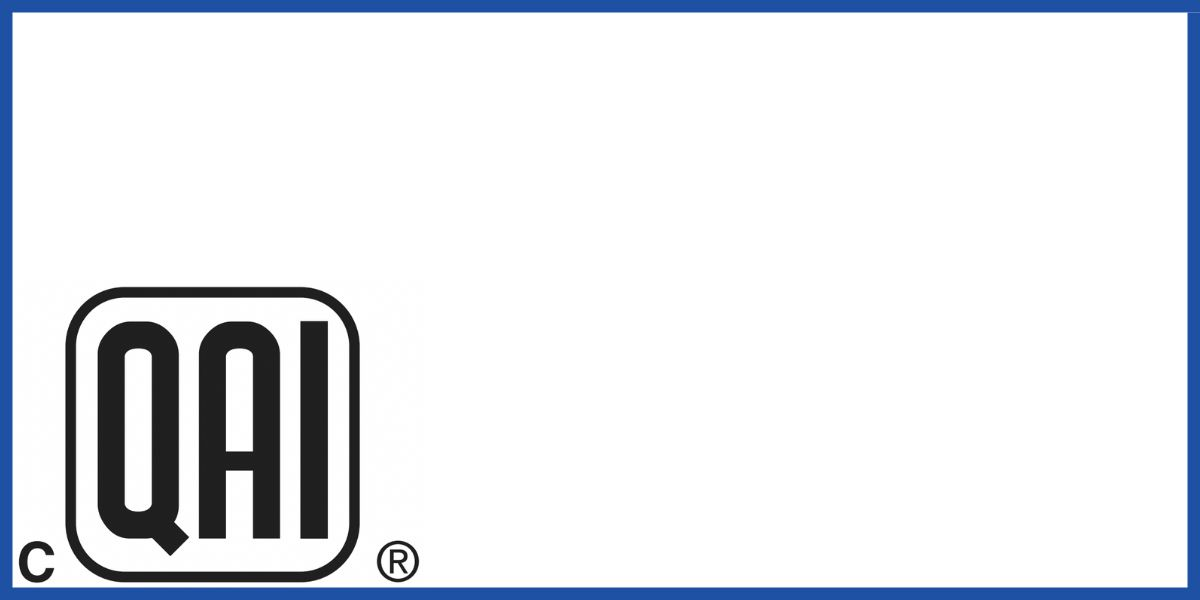
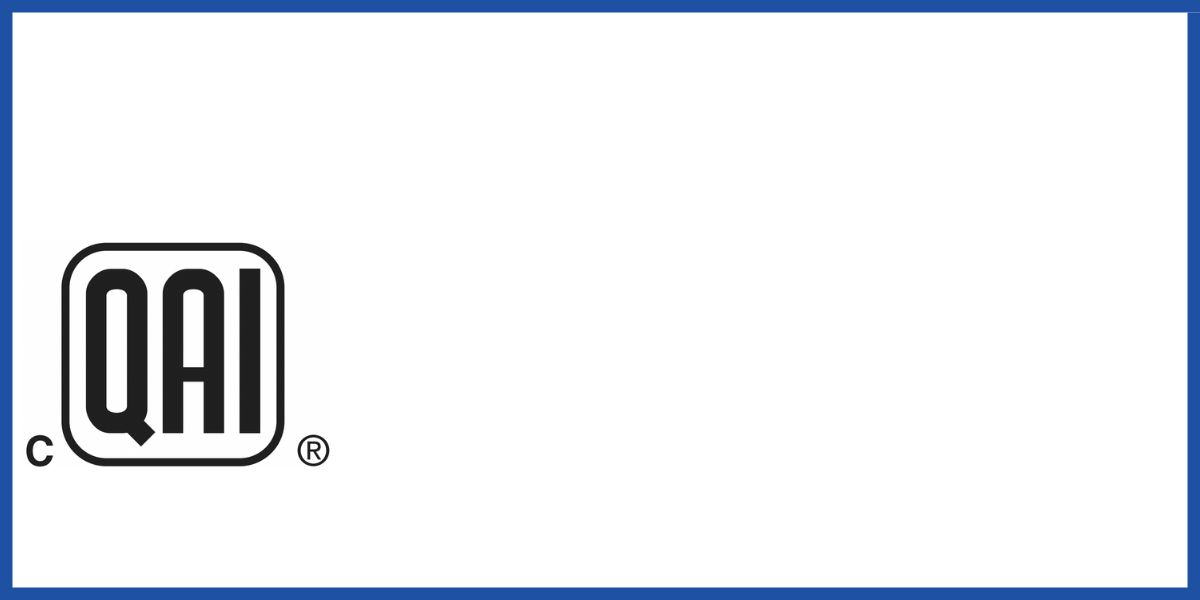
updated NAFS template

Changed region(s): [[0.0, 0.39, 0.37, 0.99]]

diff --git a/src/main/model/Label.java b/src/main/model/Label.java
@@ -121,30 +121,39 @@ public class Label {
     }
 
     public BufferedImage generatePerformanceLabel() throws IOException {
-        BufferedImage template = ImageIO.read(new URL(NAFS_TEMPLATE_URL));
-        BufferedImage label = new BufferedImage(template.getWidth(), template.getHeight(), BufferedImage.TYPE_INT_ARGB);
-        Graphics2D g = label.createGraphics();
-        g.drawImage(template, null, 0, 0);
+        // Assuming 300 DPI for a 4x2 inches label
+        int dpi = 300;
+        int width = 4 * dpi; // 4 inches wide
+        int height = 2 * dpi; // 2 inches tall
 
-        // Set the font and color for the text
+        BufferedImage template = ImageIO.read(new URL(NAFS_TEMPLATE_URL));
+        BufferedImage label = new BufferedImage(width, height, BufferedImage.TYPE_INT_ARGB);
+        Graphics2D g = label.createGraphics();
+        g.drawImage(template, 0, 0, width, height, null);
+
         g.setFont(FONT_PERFORMANCE);
         g.setColor(Color.BLACK);
 
-        int performanceY = 90;
-        String[] performance = getPerformance().split("\n");
-        int totalPerformanceHeight = performance.length * g.getFontMetrics().getHeight();
-        int startPerformanceY = performanceY - (totalPerformanceHeight / 2);
-        for (String line : performance) {
-            int lineWidth = g.getFontMetrics().stringWidth(line);
-            int x = (280 + (400 - lineWidth) / 2);
+        // Draw the performance text
+        int performanceY = 90; // Y-coordinate for the first line of text
+        String[] performance = getPerformance().split("\n"); // getPerformance() should return the performance text
 
-            g.drawString(line, x, startPerformanceY);
-            startPerformanceY += g.getFontMetrics().getHeight();
+        for (int i = 0; i < performance.length; i++) {
+            String line = performance[i];
+            int lineWidth = g.getFontMetrics().stringWidth(line);
+            int x;
+
+            if (i < 3) {
+                x = (width - lineWidth) / 2;
+            } else {
+                x = (width - lineWidth) / 2 + 150;
+            }
+
+            g.drawString(line, x, performanceY);
+            performanceY += g.getFontMetrics().getHeight();
         }
 
-        // Dispose of the graphics to finalize the drawing
         g.dispose();
-
         return label;
     }
 }
